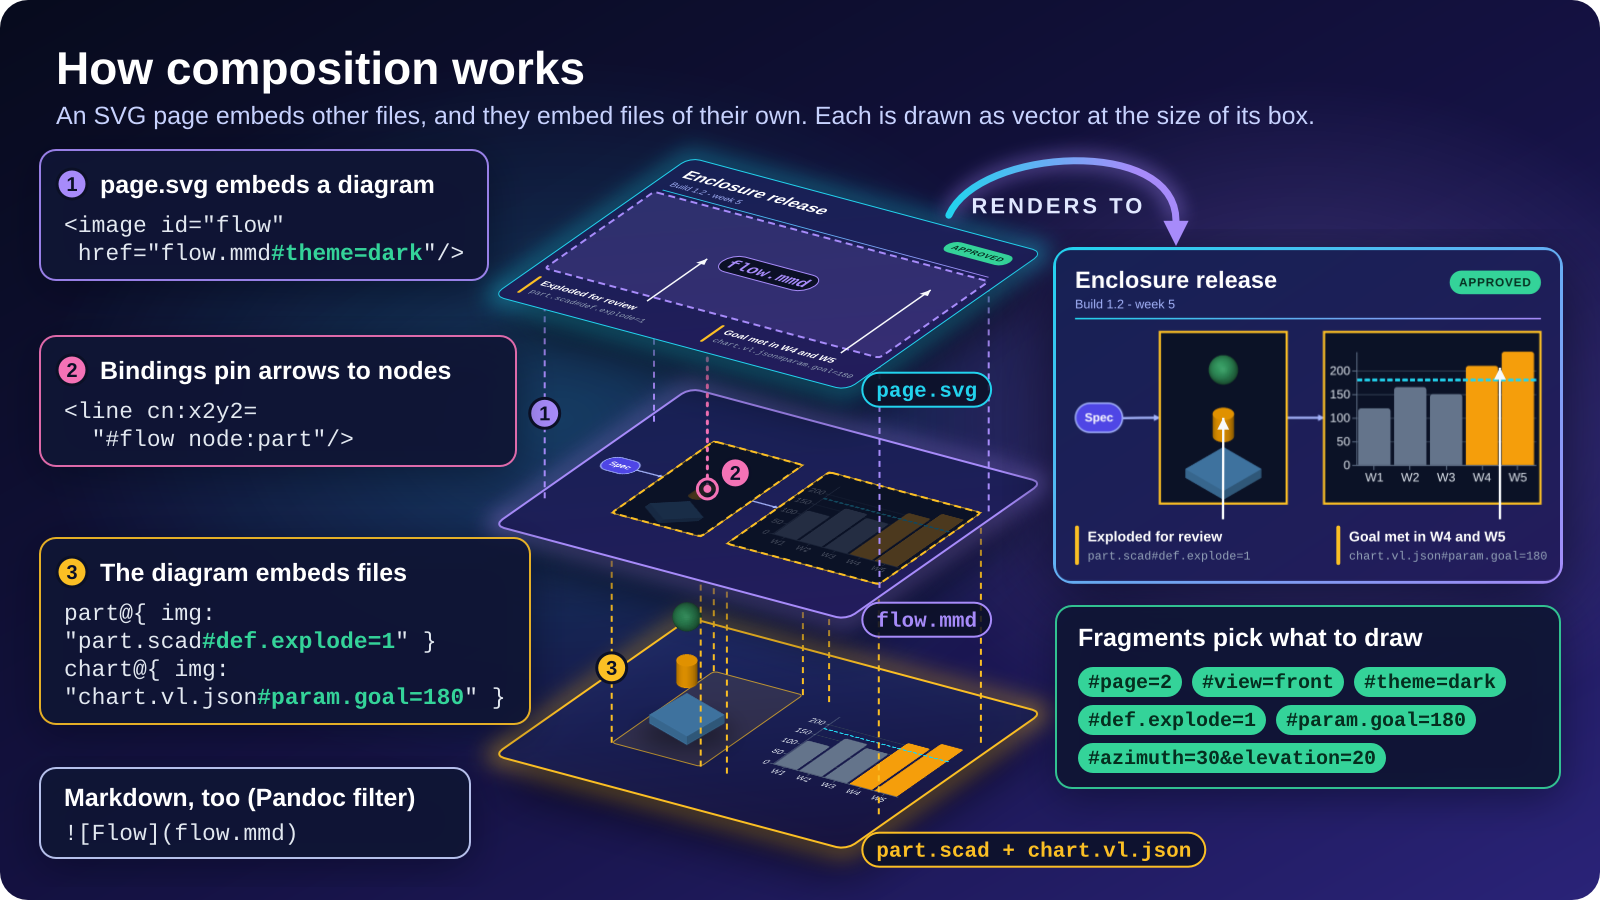
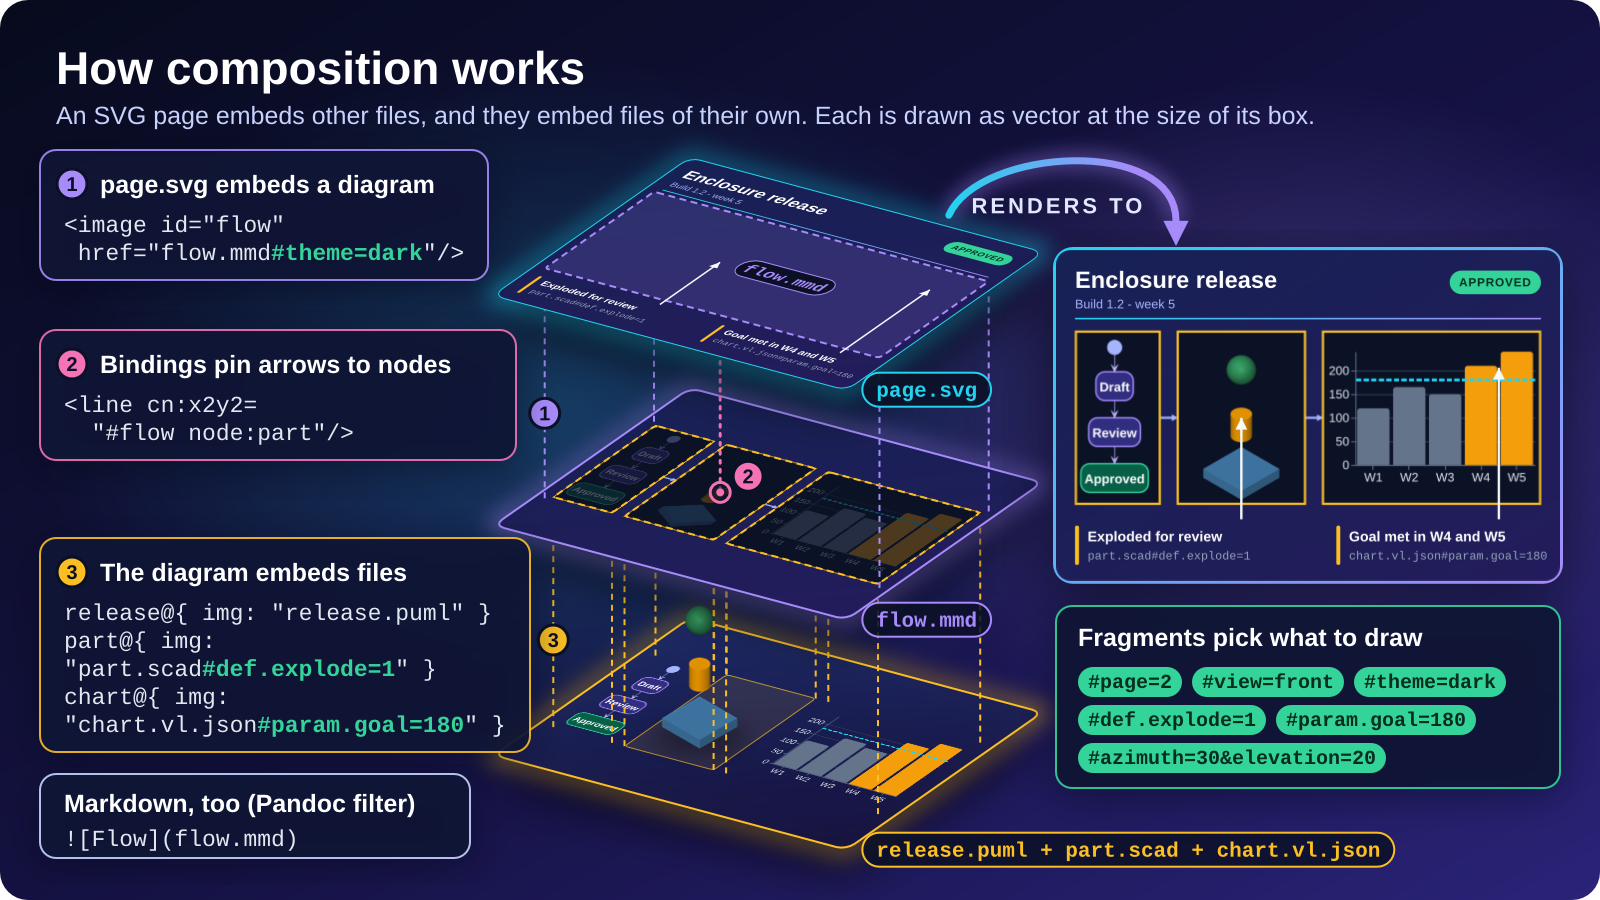
Show PlantUML embedding in the composition explainer
flow.mmd now shows a PlantUML state diagram (release.puml) in a picture node
beside the model and the chart; the exploded layers, the slots, the card
markup, the layer-1 copy of page.svg, and the alt text follow.

diff --git a/docs/images/README.md b/docs/images/README.md
@@ -15,16 +15,19 @@ and run the script, whenever a package or a project reference is added or remove
 ## composition-explained.png
 
 `composition-explained.png` (1600x900) explains composition: an exploded stack of three layers (the SVG page
-`composition-explained/page.svg`, the Mermaid diagram `flow.mmd` it embeds, and the OpenSCAD model `part.scad` and
-Vega-Lite chart `chart.vl.json` that the diagram's nodes embed), numbered cards with the markup of each link, and the
-finished page. It is referenced from the *Composition* section of the README by an absolute URL. The diagram and the
-model and chart layers are live drawings of their files under an SVG transform; the top layer is a manual copy of
-the content of `page.svg`, so a change to the page must be repeated there (the figure's header comment explains how
-its coordinates follow `page.svg`). `render-images.ps1` draws it with
-`--strict` on a transparent background, with file access confined to its folder.
+`composition-explained/page.svg`, the Mermaid diagram `flow.mmd` it embeds, and the PlantUML state diagram
+`release.puml`, OpenSCAD model `part.scad`, and Vega-Lite chart `chart.vl.json` that the diagram's nodes embed),
+numbered cards with the markup of each link, and the finished page. It is referenced from the *Composition* section of
+the README by an absolute URL. The diagram layer and the bottom layer (the PlantUML diagram, the model, and the chart)
+are live drawings of their files under an SVG transform; the top layer is a manual copy of the content of `page.svg`,
+so a change to the page must be repeated there (the figure's header comment explains how its coordinates follow
+`page.svg`). The slots of the picture nodes on the lower layers, and the end of the page's "Goal met" arrow, are taken
+from `canvasnet render "flow.mmd#theme=dark" --size 608x234 --positions "node:*" --json`, moved by the corner of the
+diagram in the page (16, 96). `render-images.ps1` draws it with `--strict` on a transparent background, with file
+access confined to its folder.
 
-Every file in `composition-explained/` is **original to this repository** (MIT): `composition-explained.svg` and
-`page.svg` were authored for it, `part.scad` is a copy of `showcase/explode.scad`, and `flow.mmd` and `chart.vl.json`
+Every file in `composition-explained/` is **original to this repository** (MIT): `composition-explained.svg`,
+`page.svg`, and `release.puml` were authored for it, `part.scad` is a copy of `showcase/explode.scad`, and `flow.mmd` and `chart.vl.json`
 are adapted from `showcase/pipeline.mmd` and `showcase/output.vl.json`.
 
 ## showcase/composition.svg

diff --git a/README.md b/README.md
@@ -98,7 +98,7 @@ passes options to the linked file: `#page=` or `#slide=` (PDF, PowerPoint, Visio
 parameters), and `#theme=` (Mermaid); join several with
 `&amp;` in XML.
 
-![How CanvasNet composition works. On the left, an exploded view stacks three layers: the SVG page page.svg on top, the Mermaid diagram flow.mmd it embeds in the middle, and an OpenSCAD model and a Vega-Lite chart that the diagram's nodes embed at the bottom. Dashed lines show where each picture lands one layer up, and a pink line shows an annotation arrow of the page bound to a node of the diagram. Numbered cards show the markup behind each link: an SVG image href with #theme=dark, a cn:x2y2 binding, and Mermaid picture nodes with #def.explode=1 and #param.goal=180, plus the same link in Markdown through the Pandoc filter. A curved arrow labeled renders to points to the finished page, and a card lists fragments such as #page=2, #view=front, #theme=dark and #param.goal=180](https://raw.githubusercontent.com/demaconsulting/CanvasNet/main/docs/images/composition-explained.png)
+![How CanvasNet composition works. On the left, an exploded view stacks three layers: the SVG page page.svg on top, the Mermaid diagram flow.mmd it embeds in the middle, and a PlantUML state diagram, an OpenSCAD model, and a Vega-Lite chart that the diagram's nodes embed at the bottom. Dashed lines show where each picture lands one layer up, and a pink line shows an annotation arrow of the page bound to a node of the diagram. Numbered cards show the markup behind each link: an SVG image href with #theme=dark, a cn:x2y2 binding, and Mermaid picture nodes that link release.puml, part.scad#def.explode=1, and chart.vl.json#param.goal=180, plus the same link in Markdown through the Pandoc filter. A curved arrow labeled renders to points to the finished page, and a card lists fragments such as #page=2, #view=front, #theme=dark and #param.goal=180](https://raw.githubusercontent.com/demaconsulting/CanvasNet/main/docs/images/composition-explained.png)
 
 ```xml
 <svg xmlns="http://www.w3.org/2000/svg" width="960" height="720">
